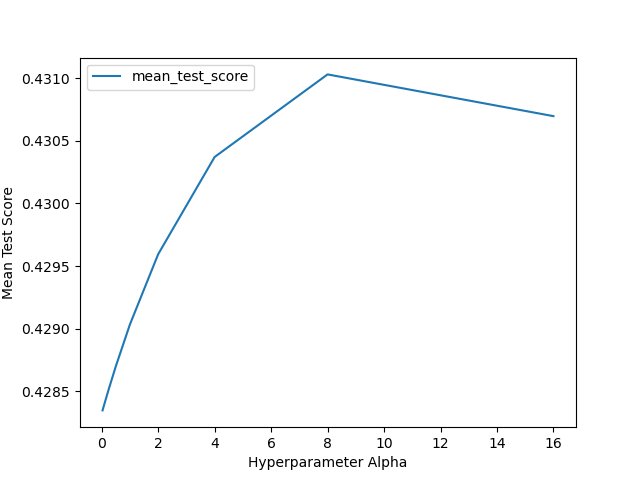
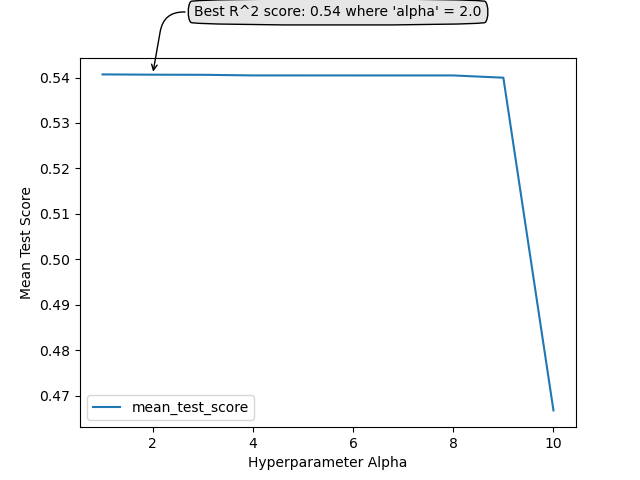
finish the script for training ml model

diff --git a/src/ml/abalone_fit_predict_model.py b/src/ml/abalone_fit_predict_model.py
@@ -27,34 +27,49 @@ opt = docopt(__doc__)
 
 
 def main(input_file, out_dir):
-    # find the best Ridge model and the hyperparameter tuning result
+    """run all helper functions to find the best model and get the 
+    hyperparameter tuning result
+
+    Parameters
+    ----------
+    input_file : string
+        the path (including file name) to the training dataset
+    out_dir : string
+        the path to store the results
+    """
     best_ridge, result_df = find_best_model(input_file)
 
     # write the serialized best model into a sav file
-    pickle.dump(best_ridge, open(out_dir + "/ridge_pipe.sav", "wb"))
+    pickle.dump(best_ridge, open(out_dir + "/best_predict_model.sav", "wb"))
 
     # save the hyperparameter tuning plot
     plot_save(result_df, out_dir + "/hyperparam_tuning.png")
 
 
 def find_best_model(input_file):
-    raw = pd.read_csv(input_file)
-    train_df = preprocess(raw)
+    """find the best model `Ridge` which is a machine learning (ML) linear 
+    regression model 
+
+    Parameters
+    ----------
+    input_file : string
+        the path (including file name) to the training dataset 
+
+    Returns
+    -------
+    best_ridge, result_df : tuple
+        a tuple that contains the best ridge model object and the tuning 
+        result dataframe
+    """
+    train_df = pd.read_csv(input_file)
     train_df = train_df[train_df["Height"] < 0.6]
     X_train, y_train = train_df.drop(columns=["Age"]), train_df["Age"]
-    ridge_pipe = get_pipeline()
-    return hyperparam_tuning(ridge_pipe, X_train, y_train)
-
-
-def plot_save(result_df, out_dir):
-    result_df.plot(kind="line", y="mean_test_score")
-    plt.xlabel("Hyperparameter Alpha")
-    plt.ylabel("Mean Test Score")
-    plt.savefig(out_dir)
-
-
-def hyperparam_tuning(pipe, X_train, y_train):
-    param_dist = {"ridge__alpha": 2.0 ** np.arange(-5, 5, 1)}
+    
+    # construct a ML pipeline
+    pipe = get_pipeline()
+    
+    # tune the hyperparameter alpha using RandomizedSearchCV
+    param_dist = {"ridge__alpha": 2.0 ** np.arange(-10, 10, 1)}
     random_search = RandomizedSearchCV(
         pipe, param_distributions=param_dist, n_jobs=-1, n_iter=10, cv=5, scoring="r2",
     )
@@ -64,29 +79,21 @@ def hyperparam_tuning(pipe, X_train, y_train):
         pd.DataFrame(random_search.cv_results_)[
             ["param_ridge__alpha", "mean_test_score", "rank_test_score",]
         ]
-        .set_index("param_ridge__alpha")
+        .set_index("rank_test_score")
         .sort_index()
     )
     return best_ridge, result_df
 
 
-def preprocess(raw):
-    raw.columns = [
-        "Sex",
-        "Length",
-        "Diameter",
-        "Height",
-        "Whole Weight",
-        "Shucked Weight",
-        "Viscera Weight",
-        "Shell Weight",
-        "Age",
-    ]
-    raw["Age"] = raw["Age"] + 1.5
-    return raw
-
-
 def get_pipeline():
+    """construct a ML pipeline which contains preprocessors for different 
+    features and a ML model
+
+    Returns
+    -------
+    sklearn.pipeline.Pipeline
+        ML pipeline
+    """
     categorical_features = ["Sex"]
     numerical_features = [
         "Length",
@@ -102,6 +109,36 @@ def get_pipeline():
     )
 
     return make_pipeline(preprocessor, Ridge())
+
+
+def plot_save(result_df, out_dir):
+    """plot the hyperparameter result and save it in the result folder
+
+    Parameters
+    ----------
+    result_df : pandas.core.frame.DataFrame
+        a dataframe containing the hyperparameter result
+    out_dir : string
+        the path to store the results
+    """
+    result_df.plot(kind="line", y="mean_test_score")
+    best_alpha = result_df.loc[1, "param_ridge__alpha"]
+    best_score = result_df.loc[1, "mean_test_score"]
+    plt.xlabel("Hyperparameter Alpha")
+    plt.ylabel("Mean Test Score")
+    plt.annotate(
+        f"Best R^2 score: {best_score:.2f} where 'alpha' = {best_alpha:.1f}",
+        xy=(best_alpha, best_score),
+        xytext=(30, 50),
+        va="top",
+        xycoords="data",
+        textcoords="offset points",
+        bbox=dict(boxstyle="round4,pad=.5", fc="0.9"),
+        arrowprops=dict(
+            arrowstyle="->", connectionstyle="angle,angleA=0,angleB=80,rad=20"
+        ),
+    )
+    plt.savefig(out_dir)
 
 
 if __name__ == "__main__":
